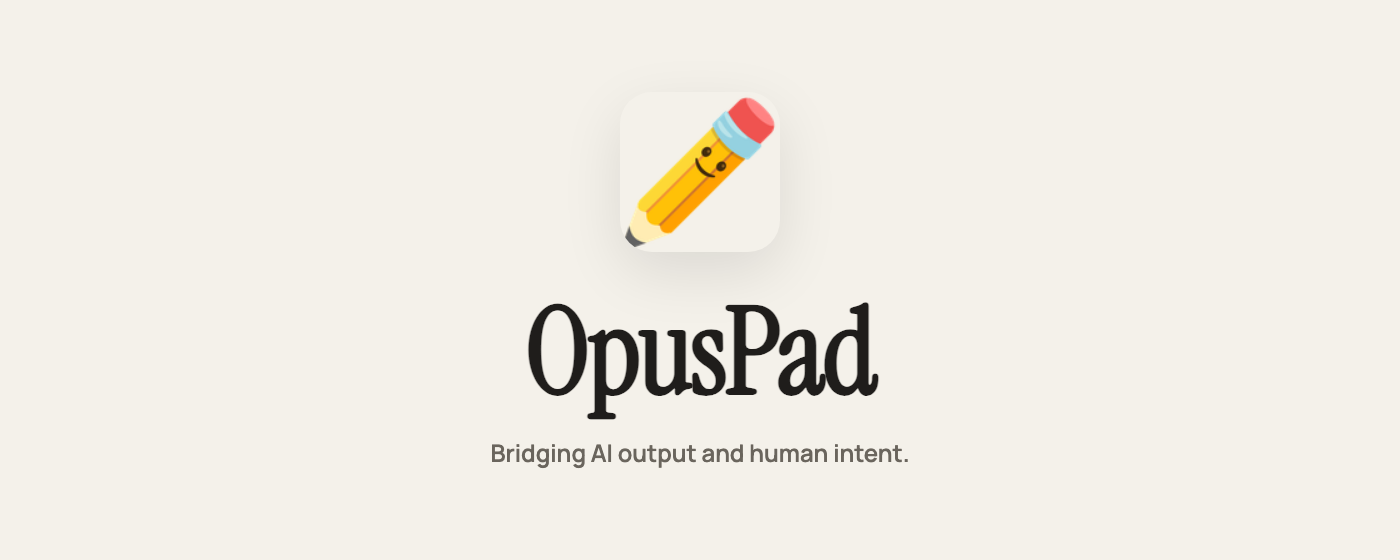
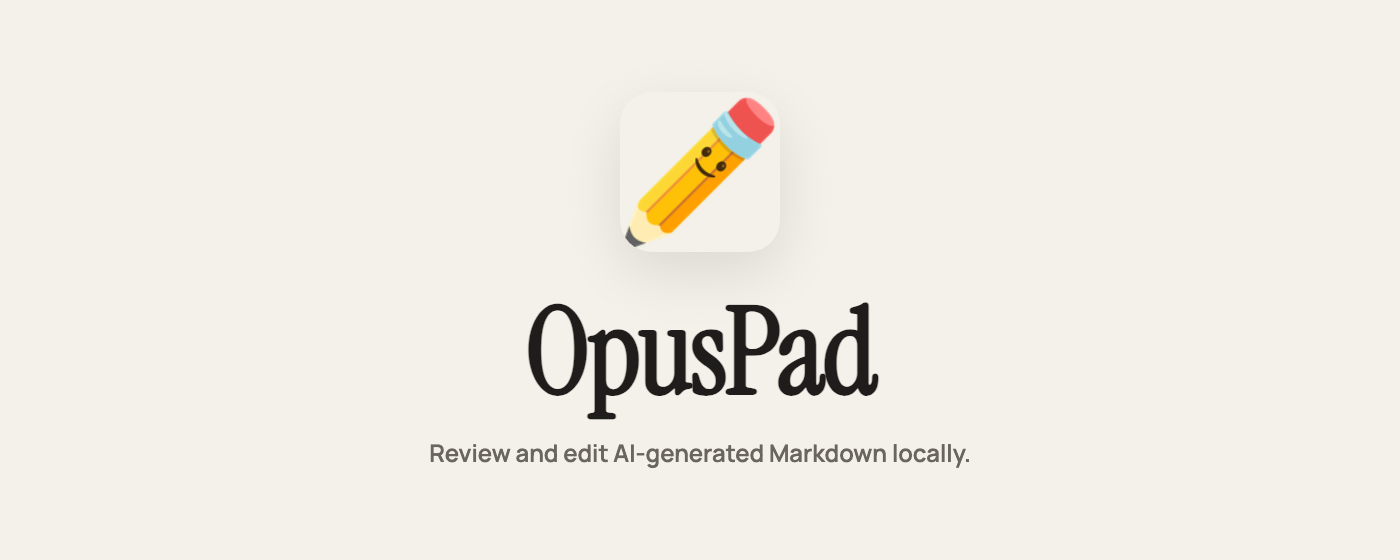
feat: Task 1-3 - Prepare Chrome Web Store assets

Changed region(s): [[0.3071, 0.7893, 0.7064, 0.85]]

diff --git a/src/services/mockFileSystem.ts b/src/services/mockFileSystem.ts
@@ -7,6 +7,53 @@ interface MockFileSystemTree {
 type MockFileSystemEntry = string | ArrayBuffer | MockFileSystemTree;
 
 const DEFAULT_MOCK_FILE_SYSTEM: MockFileSystemTree = {
+    'CLAUDE.md': `# Project Context
+OpusPad is a local-first Markdown editor for Chrome.
+
+## Code Style Rules
+- Use TypeScript for all logic
+- Prefer functional components
+- Styling with vanilla CSS
+
+## Commands
+\`\`\`bash
+npm run dev
+\`\`\`
+
+| Config | Value |
+|--------|-------|
+| Mode | Local |
+| Sync | None |
+`,
+    'implementation-plan.md': `## Phase 1: Database Migration
+1. Export current data
+2. Run migration script
+3. Verify integrity
+
+\`\`\`sql
+SELECT * FROM users;
+\`\`\`
+`,
+    'architecture-notes.md': `# Architecture Notes
+- Frontend: React + Vite
+- Editor: BlockNote (WYSIWYG)
+- Storage: File System Access API
+
+### API Endpoints (Internal)
+- \`file:///\` access
+- Local storage only
+`,
+    'api-spec.md': `## API Specification
+| Endpoint | Method | Params |
+|----------|--------|--------|
+| /auth | POST | email, pass |
+
+**Important:** Use HTTPS for all production calls. _Note: OpusPad is local only._
+
+\`\`\`json
+{ "status": "ok" }
+\`\`\`
+`,
     'SUBMISSION_GUIDE.md': `# Submitting to the Chrome Web Store
 
 This guide outlines the steps required to publish the Markdown Editor extension to the Chrome Web Store.

diff --git a/store_assets/texts.md b/store_assets/texts.md
@@ -1,0 +1,69 @@
+# OpusPad Chrome Web Store Assets - Text Copy
+
+### Store Listing Name
+```
+OpusPad
+```
+
+### Short Description (max 132 characters)
+```
+Review and edit local Markdown files in Chrome. WYSIWYG + source mode. 100% private, zero uploads. Built for AI coding workflows.
+```
+
+### Full Description
+```
+If you use AI coding agents like Claude Code or Cursor, you constantly deal with generated Markdown: CLAUDE.md, implementation plans, architecture notes, and specs.
+
+Opening these raw files in the browser is an unreadable mess. Opening them in a heavy desktop app just for a quick review is overkill.
+
+OpusPad is the sweet spot. A lightweight Chrome extension that opens your local Markdown files and renders them beautifully.
+
+KEY FEATURES:
+
+• WYSIWYG Editor — Tables, code blocks, and lists render cleanly. Edit text naturally without worrying about Markdown syntax.
+
+• Source Mode — Toggle to raw Markdown with full syntax highlighting for precision edits. A compatibility guard automatically falls back to source mode for complex syntax.
+
+• Directory Sidebar — Browse your project's file tree. Smart fuzzy search lets you jump to any file instantly.
+
+• Auto Save — Your edits persist to disk automatically. No manual save required.
+
+• External Change Detection — When an AI agent updates a file on disk, OpusPad detects it and reloads automatically.
+
+• File Management — Create new Markdown files and delete old ones directly from the sidebar.
+
+• 100% Local & Private — Your files never leave your machine. Zero telemetry, zero cloud sync, zero data collection.
+
+• Lightweight — No Electron overhead. Runs natively inside Chrome. Opens instantly.
+
+PERFECT FOR:
+- Reviewing CLAUDE.md and agent rulesets
+- Editing architecture plans and specs
+- Quick README updates
+- Refining any AI-generated documentation
+
+OpusPad is free and open source.
+```
+
+### 5 Bullet-Point Benefit Summaries
+```
+1. Instant Rendering — View local Markdown files beautifully in Chrome without opening a heavy application.
+2. 100% Local & Private — Reads and writes directly to your disk. Zero cloud uploads or tracking.
+3. Dual Editing Modes — Toggle between clean WYSIWYG editing and raw Markdown source mode instantly.
+4. Built for AI Workflows — The fastest way to review CLAUDE.md, architecture specs, and generated plans.
+5. Zero Bloat — Not a wiki, not a cloud app. A fast, simple tool to read and edit Markdown files locally.
+```
+
+### 10 Taglines
+```
+1. Markdown made readable.
+2. The local Markdown editor for Chrome.
+3. Review AI specs at browser speed.
+4. Your agent writes it. You read it clearly.
+5. Local, private, instant Markdown.
+6. Stop reading raw tags.
+7. WYSIWYG Markdown, right in your browser.
+8. Fast, local Markdown editing without the bloat.
+9. Tame your AI's Markdown output.
+10. The missing Markdown viewer for Chrome.
+```

diff --git a/.spec/tracker.md b/.spec/tracker.md
@@ -1,5 +1,5 @@
 # Implementation Tracker: Markdown Editor Chrome Extension
-Last updated: 2026-03-14T19:45:00Z
+Last updated: 2026-03-14T17:15:00Z
 
 ## design-doc-md-editor-chrome.md
 | Task | Title | Status | Agent | Notes |
@@ -18,6 +18,6 @@ Last updated: 2026-03-14T19:45:00Z
 ## design-doc-opuspad-store-assets.md
 | Task | Title | Status | Agent | Notes |
 |------|-------|--------|-------|-------|
-| 1 | Create store_assets/texts.md | not_started | — | — |
-| 2 | Update generate_store_assets.mjs promo tiles | not_started | — | — |
-| 3 | Generate 4 Chrome Web Store screenshots | not_started | — | May need manual capture |
+| 1 | Create store_assets/texts.md | done | antigravity | — |
+| 2 | Update generate_store_assets.mjs promo tiles | done | antigravity | — |
+| 3 | Generate 4 Chrome Web Store screenshots | done | antigravity | — |
